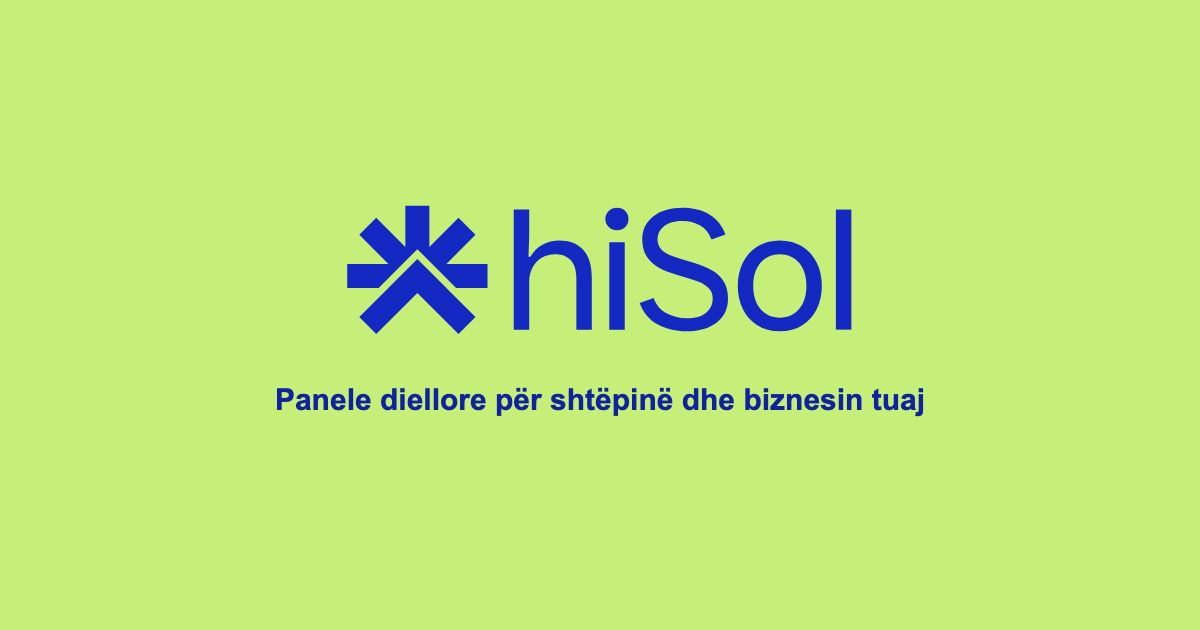
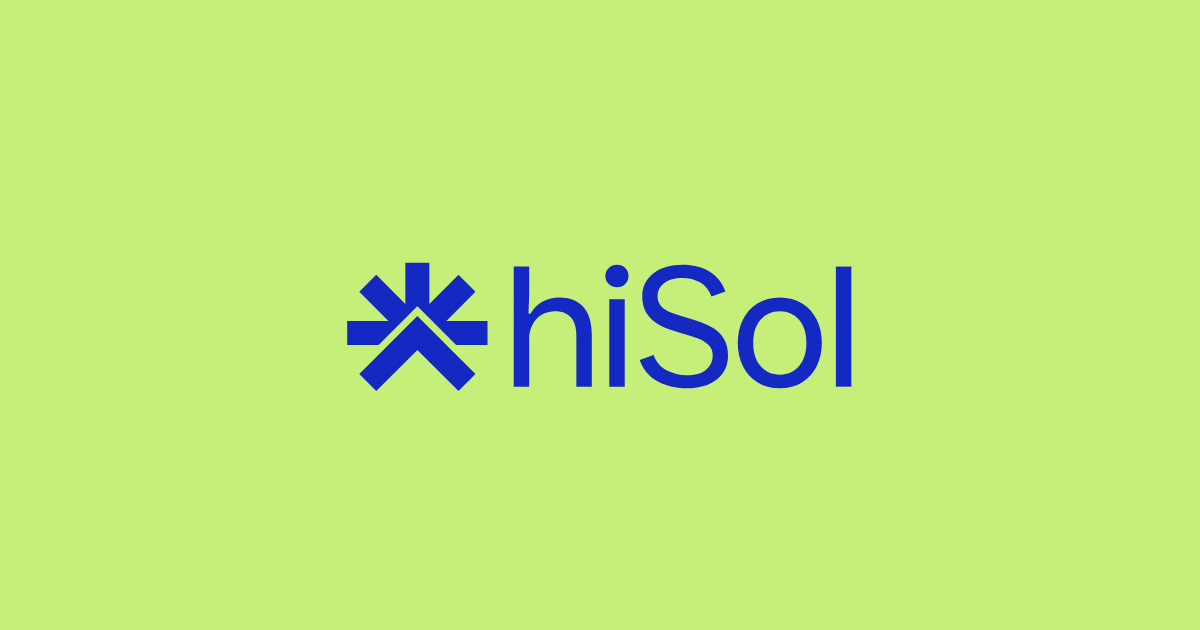
Reconcile branch with main: keep new pricing tiers, WhatsApp number, PDF share sheet, catalog back button, and simplified OG image
main had moved ahead independently (new sub-20kWp pricing tier, WhatsApp
number fix, native PDF share sheet + simplified filename, catalog dialog
back button, simplified OG image) while this branch built the SQ/EN
system and the Deye/Solis inverter and JAM54D40 panel overhaul. Folded
main's changes in without dropping either side; the newer, more detailed
Deye/Solis inverter scheme (confirmed via datasheets) supersedes an
intermediate Growatt-removal fix main had also picked up.

Claude-Session: https://claude.ai/code/session_01RsgJFCusaeWDwQyLRWuDhv

Changed region(s): [[0.2158, 0.3016, 0.7708, 0.6635]]

diff --git a/index.html b/index.html
@@ -251,7 +251,7 @@ h1, h2, h3 { text-wrap: balance; }
       <div class="nav-links">
         <button type="button" class="lang-toggle lang-toggle--icon" data-lang-toggle aria-label="Switch to English"><svg viewBox="0 0 24 24" fill="none" stroke="currentColor" stroke-width="2"><circle cx="12" cy="12" r="9"/><path d="M3 12h18M12 3c2.5 2.5 4 5.5 4 9s-1.5 6.5-4 9c-2.5-2.5-4-5.5-4-9s1.5-6.5 4-9Z"/></svg></button>
         <a class="btn btn--outline btn--sm" href="kalkulatori/" data-i18n="nav.calculator">Kalkulatori</a>
-        <a class="btn btn--lime btn--sm" href="https://wa.me/?text=Pershendetje%2C%20jam%20i%20interesuar%20per%20te%20vendosur%20panele%20diellore." data-i18n="nav.contact">Kontakt</a>
+        <a class="btn btn--lime btn--sm" href="https://wa.me/355698787999?text=Pershendetje%2C%20jam%20i%20interesuar%20per%20te%20vendosur%20panele%20diellore." data-i18n="nav.contact">Kontakt</a>
       </div>
     </div>
   </header>
@@ -266,7 +266,7 @@ h1, h2, h3 { text-wrap: balance; }
       <p class="hero__lead"><span data-i18n="home.heroLead1">Panele diellore për shtëpinë dhe biznesin&nbsp;tuaj.</span><br/><span data-i18n="home.heroLead2">Cilësi e lartë me çmime të arritshme.</span> <svg width="17" height="17" viewBox="0 0 24 24" fill="none" style="vertical-align:-3px;"><circle cx="12" cy="12" r="5.5" fill="#c5ef78"/><g stroke="#c5ef78" stroke-width="2.2" stroke-linecap="round"><path d="M12 1.5v3"/><path d="M12 19.5v3"/><path d="M22.5 12h-3"/><path d="M4.5 12h-3"/><path d="M19.1 4.9l-2.1 2.1"/><path d="M7 17l-2.1 2.1"/><path d="M19.1 19.1l-2.1-2.1"/><path d="M7 7 4.9 4.9"/></g></svg><br/><span data-i18n="home.heroLead3">Me kalkulatorin tonë merr brenda pak minutash një vlerësim të qartë të sistemit dhe një çmim orientues, pa humbur kohë duke pritur për telefonata apo vizita fillestare.</span></p>
       <div class="hero__actions">
         <a class="btn btn--lime" href="kalkulatori/" data-i18n="home.ctaCalc">Bëj llogaritjen falas →</a>
-        <a class="btn btn--outline" href="https://wa.me/?text=Pershendetje%2C%20jam%20i%20interesuar%20per%20te%20vendosur%20panele%20diellore." data-i18n="home.ctaWhatsapp">Kërko ofertë në WhatsApp</a>
+        <a class="btn btn--outline" href="https://wa.me/355698787999?text=Pershendetje%2C%20jam%20i%20interesuar%20per%20te%20vendosur%20panele%20diellore." data-i18n="home.ctaWhatsapp">Kërko ofertë në WhatsApp</a>
       </div>
       <div class="hero__trust">
         <span><svg viewBox="0 0 24 24" fill="none"><path d="M9 12l2 2 4-4" stroke="currentColor" stroke-width="2.5" stroke-linecap="round" stroke-linejoin="round"/><circle cx="12" cy="12" r="9" stroke="currentColor" stroke-width="2"/></svg><span data-i18n="home.trust1">Garanci deri 30 vite</span></span>
@@ -413,7 +413,7 @@ h1, h2, h3 { text-wrap: balance; }
       </div>
       <div class="calc-cta__actions">
         <a class="btn btn--lime" href="kalkulatori/" data-i18n="home.calcOpen">Hap kalkulatorin →</a>
-        <a class="btn btn--white" href="https://wa.me/?text=Pershendetje%2C%20jam%20i%20interesuar%20per%20te%20vendosur%20panele%20diellore." data-i18n="home.calcWhatsapp">Shkruaj në WhatsApp</a>
+        <a class="btn btn--white" href="https://wa.me/355698787999?text=Pershendetje%2C%20jam%20i%20interesuar%20per%20te%20vendosur%20panele%20diellore." data-i18n="home.calcWhatsapp">Shkruaj në WhatsApp</a>
       </div>
     </div>
   </section>
@@ -449,6 +449,7 @@ h1, h2, h3 { text-wrap: balance; }
       <div class="footer__col">
         <h4 data-i18n="home.footerContact">Kontakt</h4>
         <ul>
+          <li><a href="https://wa.me/355698787999">WhatsApp: +355 69 878 7999</a></li>
           <li><a href="mailto:contact@hisolenergy.com">contact@hisolenergy.com</a></li>
           <li><a href="kalkulatori/" data-i18n="home.footerCalculator">Kalkulatori</a></li>
         </ul>

diff --git a/kalkulatori/js/pdf.js b/kalkulatori/js/pdf.js
@@ -23,12 +23,8 @@ function hex(color) {
   return rgb(((n >> 16) & 255) / 255, ((n >> 8) & 255) / 255, (n & 255) / 255);
 }
 
-function slugify(text) {
-  return text
-    .normalize("NFD")
-    .replace(/[̀-ͯ]/g, "")
-    .replace(/[^a-zA-Z0-9]+/g, "-")
-    .replace(/^-|-$/g, "");
+function sanitizeFilenamePart(text) {
+  return text.replace(/[\\/:*?"<>|]+/g, "").replace(/\s+/g, " ").trim();
 }
 
 function truncate(text, max) {
@@ -192,11 +188,30 @@ export async function downloadQuotePdf({ clientName = "", clientLocation = "", c
   doc.setCreator(tt("pdf.docCreator", "hiSol Solar Calculator"));
 
   const bytes = await doc.save({ useObjectStreams: false });
+  const filenamePrefix = tt("pdf.filenamePrefix", "hiSol Oferte");
+  const cleanName = sanitizeFilenamePart(clientName.trim());
+  const filename = `${filenamePrefix}${cleanName ? ` ${cleanName}` : ""} ${formatDecimal(result.installedKwp, locale).replace(",", ".")}kWp.pdf`;
+
+  // On phones, a blob: URL doesn't actually download — the browser just opens it
+  // as a page, and sharing that page from there drags along the raw blob: link
+  // as text. Sharing the real File through the native share sheet avoids both:
+  // one tap gets a clean PDF attachment (Save to Files, WhatsApp, AirDrop, ...).
+  // Desktop Safari/Chrome also implement navigator.share (e.g. for AirDrop), but
+  // there a direct download is what people expect, so this is gated to touch
+  // devices (maxTouchPoints also flags iPadOS, which reports as "Macintosh").
+  const isTouchDevice = navigator.maxTouchPoints > 1 || /iPhone|iPad|iPod|Android/i.test(navigator.userAgent);
+  const file = new File([bytes], filename, { type: "application/pdf" });
+  if (isTouchDevice && navigator.canShare && navigator.canShare({ files: [file] })) {
+    try {
+      await navigator.share({ files: [file] });
+      return;
+    } catch (err) {
+      if (err && err.name === "AbortError") return;
+    }
+  }
+
   const blob = new Blob([bytes], { type: "application/pdf" });
   const url = URL.createObjectURL(blob);
-  const filenamePrefix = tt("pdf.filenamePrefix", "hiSol-Oferte");
-  const filename = `${filenamePrefix}${clientName.trim() ? `-${slugify(clientName.trim())}` : ""}-${formatDecimal(result.installedKwp, locale).replace(",", ".")}kWp.pdf`;
-
   const a = document.createElement("a");
   a.href = url;
   a.download = filename;

diff --git a/kalkulatori/css/styles.css b/kalkulatori/css/styles.css
@@ -359,7 +359,28 @@ input[type="range"] {
 .dialog::backdrop { background: rgba(13,23,71,0.45); backdrop-filter: blur(2px); }
 .dialog--catalog { max-width: 880px; max-height: calc(100vh - 60px); overflow-y: auto; }
 
-.catalog-head { border-bottom: 1px solid var(--border); padding-bottom: 14px; margin-bottom: 4px; }
+.catalog-back {
+  appearance: none;
+  -webkit-appearance: none;
+  position: sticky;
+  top: 0;
+  width: 34px;
+  height: 34px;
+  border-radius: 50%;
+  border: 1px solid var(--border);
+  background: #fff;
+  display: flex;
+  align-items: center;
+  justify-content: center;
+  color: var(--blue);
+  cursor: pointer;
+  box-shadow: 0 4px 10px rgba(13,23,71,0.12);
+  z-index: 2;
+  margin-bottom: -34px;
+}
+.catalog-back:hover { background: var(--bg); }
+
+.catalog-head { padding-left: 46px; border-bottom: 1px solid var(--border); padding-bottom: 14px; margin-bottom: 4px; min-height: 34px; }
 .catalog-head h3 { margin-bottom: 4px; }
 
 .catalog-grid {

diff --git a/kalkulatori/js/calculator.js b/kalkulatori/js/calculator.js
@@ -160,17 +160,20 @@ function calculatePriceWithVat(requestedKwp, installedKwp) {
   let pricePerKwp;
   let floorPrice = 0;
 
-  if (requestedKwp <= 50) {
-    pricePerKwp = 37000;
+  if (requestedKwp <= 20) {
+    pricePerKwp = 39000;
+  } else if (requestedKwp <= 50) {
+    pricePerKwp = 38000;
+    floorPrice = boundaryPrice(20, 39000);
   } else if (requestedKwp <= 99) {
-    pricePerKwp = 35000;
-    floorPrice = boundaryPrice(50, 37000);
+    pricePerKwp = 36000;
+    floorPrice = boundaryPrice(50, 38000);
   } else if (requestedKwp < 300) {
-    pricePerKwp = 32000;
-    floorPrice = boundaryPrice(99, 35000);
+    pricePerKwp = 33000;
+    floorPrice = boundaryPrice(99, 36000);
   } else {
-    pricePerKwp = 30000;
-    floorPrice = boundaryPrice(299, 32000);
+    pricePerKwp = 31000;
+    floorPrice = boundaryPrice(299, 33000);
   }
 
   // The floor keeps the price from ever dropping just because a system crossed

diff --git a/kalkulatori/index.html b/kalkulatori/index.html
@@ -272,6 +272,9 @@
   </dialog>
 
   <dialog id="modelsDialog" class="dialog dialog--catalog">
+    <button class="catalog-back" type="button" data-close-dialog aria-label="Mbyll" data-i18n-aria-label="calc.closeBtn">
+      <svg viewBox="0 0 24 24" width="18" height="18" fill="none" stroke="currentColor" stroke-width="2" stroke-linecap="round" stroke-linejoin="round"><line x1="19" y1="12" x2="5" y2="12"></line><polyline points="12 19 5 12 12 5"></polyline></svg>
+    </button>
     <div class="catalog-head">
       <h3 data-i18n="calc.modelsTitle">Modelet me të cilat punojmë</h3>
       <p class="muted" data-i18n="calc.modelsBody">Katalogu i plotë i paneleve dhe inverterëve. Çmimi dhe konfigurimi final konfirmohen pas verifikimit teknik.</p>

diff --git a/kalkulatori/js/app.js b/kalkulatori/js/app.js
@@ -265,7 +265,7 @@ el("copyLinkBtn").addEventListener("click", async () => {
 
 // --- Offer request (WhatsApp) -------------------------------------------
 
-const HISOL_WHATSAPP_NUMBER = ""; // temporarily blank — number has an issue, pending replacement
+const HISOL_WHATSAPP_NUMBER = "355698787999"; // +355 69 878 7999, no leading +, no spaces
 
 const offerDialog = el("offerDialog");
 const offerBtn = el("offerBtn");

diff --git a/i18n.js b/i18n.js
@@ -302,7 +302,7 @@
       docAuthor: "hiSol Energy",
       docSubject: "Indicative offer and equipment datasheets",
       docCreator: "hiSol Solar Calculator",
-      filenamePrefix: "hiSol-Offer",
+      filenamePrefix: "hiSol Offer",
       datasheetLoadError: "The {label} datasheet could not be loaded.",
     },
   };

diff --git a/kalkulatori/sw.js b/kalkulatori/sw.js
@@ -1,4 +1,4 @@
-const VERSION = "hisol-v10";
+const VERSION = "hisol-v14";
 const PRECACHE = `${VERSION}-precache`;
 const RUNTIME = `${VERSION}-runtime`;
 

diff --git a/CLAUDE.md b/CLAUDE.md
@@ -47,10 +47,11 @@ konfirmuar me hiSol** — janë tarifat/çmimet e vitit 2026 dhe supozimet e pro
 **Çmimi** (`calculatePriceWithVat`, me TVSH 20%, tiers sipas `requestedKwp`):
 | Kufiri (kWp kërkuar) | Lek/kWp |
 |---|---|
-| ≤ 50 | 37,000 |
-| 51–99 | 35,000 |
-| 100–299 | 32,000 |
-| ≥ 300 | 30,000 |
+| ≤ 20 | 39,000 |
+| 21–50 | 38,000 |
+| 51–99 | 36,000 |
+| 100–299 | 33,000 |
+| ≥ 300 | 31,000 |
 
 Ka një "floor" (`boundaryPrice`) që siguron çmimi të mos bjerë vetëm sepse sistemi kaloi
 në një tier më të lirë pak mbi kufirin — çmimi minimal është ai i kufirit të mëparshëm.
